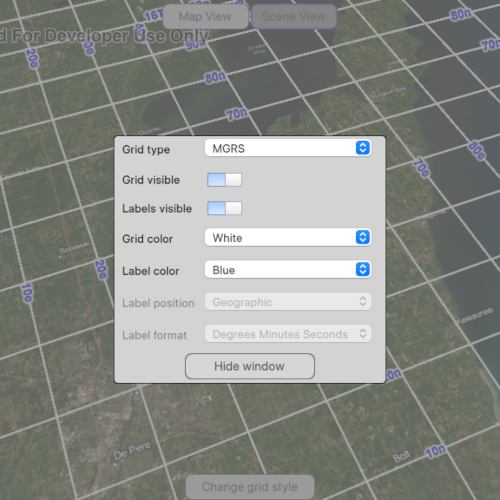
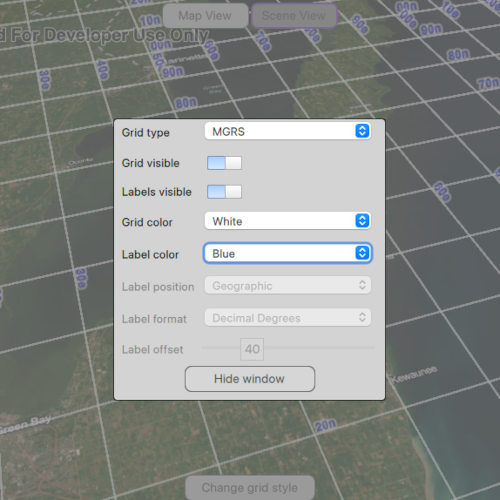
Add label offset to Show Grid
* Add label offset option

* Update screenshot

* update color names

* remove unused property

Changed region(s): [[0.0, 0.0, 1.0, 1.0], [0.03, 0.9, 0.09, 0.96], [0.0, 0.93, 0.03, 1.0]]

diff --git a/CppSamples/DisplayInformation/ShowGrid/ShowGrid.qml b/CppSamples/DisplayInformation/ShowGrid/ShowGrid.qml
@@ -379,6 +379,47 @@ Item {
                 }
             }
 
+            Text {
+                Layout.leftMargin: 10
+                text: "Label offset"
+                enabled: offsetSlider.enabled
+                color: enabled ? "black"  : "gray"
+            }
+
+            Slider {
+                id: offsetSlider
+                Layout.minimumWidth: leftPadding + rightPadding
+                Layout.rightMargin: 10
+                Layout.fillWidth: true
+                from: 0
+                to: 150
+                value: gridSample.currentLabelOffset
+                enabled: (gridSample.currentLabelPosition !== "Geographic" && gridSample.currentLabelPosition !== "Center")
+                onValueChanged: {
+                    if (value !== gridSample.currentLabelOffset)
+                        gridSample.setLabelOffset(value);
+                }
+
+                handle: Rectangle {
+                    x: offsetSlider.leftPadding + offsetSlider.visualPosition * (offsetSlider.availableWidth - width)
+                    y: offsetSlider.topPadding + offsetSlider.availableHeight / 2 - height / 2
+                    implicitWidth: 26
+                    implicitHeight: 26
+
+                    color: offsetSlider.enabled ? "white" : "lightgrey"
+                    border.color: "gray"
+                    Text {
+                        anchors.centerIn: parent
+                        text: offsetSlider.value.toFixed(0)
+                        font.pixelSize: 14
+                        color: offsetSlider.enabled ? "black" : "gray"
+                        onWidthChanged: {
+                            parent.width = Math.max(width + 10, 26)
+                        }
+                    }
+                }
+            }
+
             // Button to hide the styling window
             Rectangle {
                 id: hideButton

diff --git a/CppSamples/DisplayInformation/ShowGrid/ShowGrid.cpp b/CppSamples/DisplayInformation/ShowGrid/ShowGrid.cpp
@@ -62,8 +62,11 @@ ShowGrid::ShowGrid(QObject* parent /* = nullptr */):
   constexpr double targetScale = 6450785;
   m_map->setInitialViewpoint(Viewpoint(Point(-10336141.70018318, 5418213.05332071, SpatialReference::webMercator()), targetScale));
 
-  // Set the intial grid to LatitudeLongitudeGrid
+  // Set the initial grid to LatitudeLongitudeGrid
   m_grid = new LatitudeLongitudeGrid(this);
+
+  // Most values are populated from the UI, but we need to set some initial values
+  m_currentLabelOffset = m_grid->labelOffset();
 }
 
 ShowGrid::~ShowGrid() = default;
@@ -173,6 +176,7 @@ void ShowGrid::setGridType(const QString& gridType)
   setLabelColor(m_currentLabelColor);
   setLabelPosition(m_currentLabelPosition);
   setLabelFormat(m_currentLabelFormat);
+  setLabelOffset(m_currentLabelOffset);
 
   emit gridTypeChanged();
 }
@@ -200,7 +204,7 @@ void ShowGrid::setLabelsVisible(bool visible)
 }
 
 void ShowGrid::setLineColor(const QString& lineColor)
-{  
+{
   m_currentLineColor = lineColor;
 
   SimpleLineSymbol* lineSymbol = static_cast<SimpleLineSymbol*>(m_grid->lineSymbol(0));
@@ -263,4 +267,11 @@ void ShowGrid::setLabelFormat(const QString& labelFormat)
     static_cast<LatitudeLongitudeGrid*>(m_grid)->setLabelFormat(LatitudeLongitudeGridLabelFormat::DegreesMinutesSeconds);
 
   emit labelFormatChanged();
+}
+
+void ShowGrid::setLabelOffset(double offset)
+{
+  m_currentLabelOffset = offset;
+  m_grid->setLabelOffset(offset);
+  emit labelOffsetChanged();
 }

diff --git a/CppSamples/DisplayInformation/ShowGrid/ShowGrid.h b/CppSamples/DisplayInformation/ShowGrid/ShowGrid.h
@@ -53,6 +53,7 @@ class ShowGrid : public QObject
   Q_PROPERTY(QStringList labelFormats MEMBER m_labelFormats CONSTANT)
   Q_PROPERTY(QString currentLabelFormat MEMBER m_currentLabelFormat NOTIFY labelFormatChanged)
   Q_PROPERTY(QStringList labelPositions MEMBER m_labelPositions CONSTANT)
+  Q_PROPERTY(double currentLabelOffset MEMBER m_currentLabelOffset NOTIFY labelOffsetChanged)
 
 public:
   explicit ShowGrid(QObject* parent = nullptr);
@@ -68,6 +69,7 @@ public:
   Q_INVOKABLE void setLabelColor(const QString& labelColor);
   Q_INVOKABLE void setLabelPosition(const QString& labelPosition);
   Q_INVOKABLE void setLabelFormat(const QString& labelFormat);
+  Q_INVOKABLE void setLabelOffset(double offset);
 
 signals:
   void mapViewChanged();
@@ -80,6 +82,7 @@ signals:
   void labelColorChanged();
   void labelPositionChanged();
   void labelFormatChanged();
+  void labelOffsetChanged();
 
 private:
   // Declare private methods
@@ -104,6 +107,7 @@ private:
   QString m_currentLabelColor;
   QString m_currentLabelPosition;
   QString m_currentLabelFormat;
+  double m_currentLabelOffset = 0.0;
 
   // Constants
   const QString s_mapView = QStringLiteral("MapView");

diff --git a/CppSamples/DisplayInformation/ShowGrid/README.md b/CppSamples/DisplayInformation/ShowGrid/README.md
@@ -10,7 +10,7 @@ Grids are often used on printed maps, but can also be helpful on digital 2D maps
 
 ## How to use the sample
 
-Tap on the `Change Grid` button in the toolbar to open a settings view. You can change the view from 2D or 3D, select the type of grid from `Grid Type` (LatLong, MGRS, UTM, and USNG) and modify its properties like label visibility, grid line color, grid label color, and label formatting.
+Tap on the `Change Grid` button in the toolbar to open a settings view. You can change the view from 2D or 3D, select the type of grid from `Grid Type` (LatLong, MGRS, UTM, and USNG) and modify its properties like label visibility, grid line color, grid label color, label formatting, and label offset.
 
 ## How it works
 
@@ -19,14 +19,13 @@ Tap on the `Change Grid` button in the toolbar to open a settings view. You can 
 3. The label position can be set with `setLabelPosition(labelPosition)` method on the grid.
    * Note that as of 200.6, MGRS, UTM, and USNG grids in a SceneView only support the `Geographic` label position.
 4. For the `LatitudeLongitudeGrid` type, you can specify a label format of `DECIMAL_DEGREES` or `DEGREES_MINUTES_SECONDS`.
-5. To set the grid, use the `setGrid(grid)` method on the map view or scene view.
+5. For all screen-aligned label placement strategies, you can set the labels' offset in device-independent pixels (DIPs) from the screen edge with `setLabelOffset(offset)`.
+6. To set the grid, use the `setGrid(grid)` method on the map view or scene view.
 
 ## Relevant API
 
 * ArcGISGrid
 * LatitudeLongitudeGrid
-* LatitudeLongitudeGridLabelFormat::DecimalDegrees
-* LatitudeLongitudeGridLabelFormat::DegreesMinutesSeconds
 * MapView
 * MGRSGrid
 * SceneView
